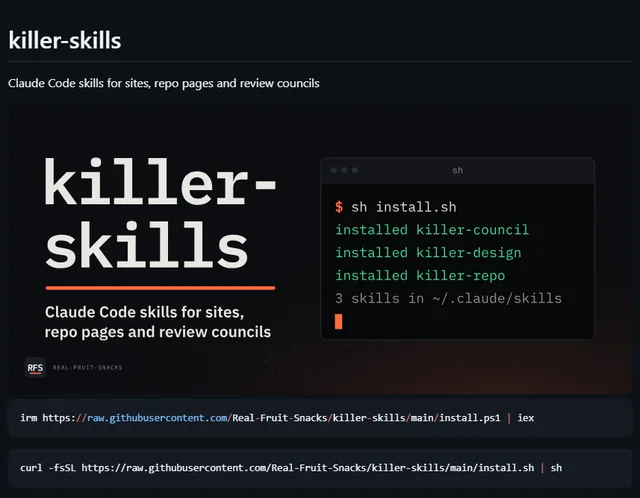
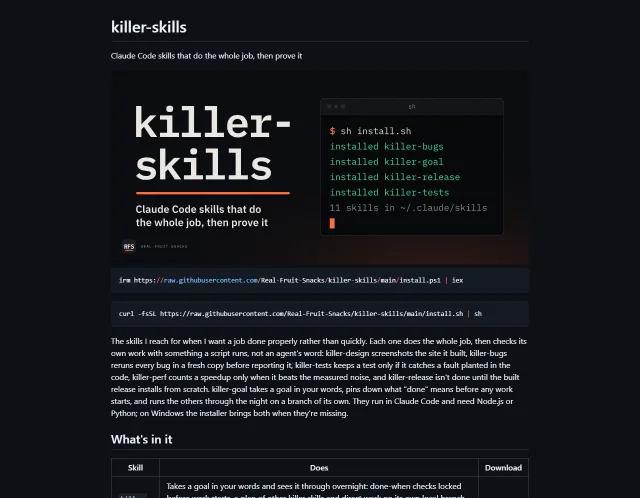
Page: all eleven skills
The three skills with a real run to show keep their plates. The other eight
follow in a ruled list: what each does, the check its script makes before a
job counts as done, what it needs, and its download. A skill moves up to a
plate when it has a real run worth printing; DESIGN.md says so now.

killer-repo's plate gets fresh renders of this README through GitHub, since
the old ones showed the three-skill cover. Checked with shoot.mjs at 390, 768
and 1440.

diff --git a/docs/index.html b/docs/index.html
@@ -4,7 +4,7 @@
 <meta charset="utf-8">
 <meta name="viewport" content="width=device-width, initial-scale=1">
 <title>killer-skills: Claude Code skills that won't hand you the first draft</title>
-<meta name="description" content="Three Claude Code skills, each its own download. killer-design builds a website and screenshots it, killer-repo rebuilds a repo page and renders it as GitHub will, killer-council has blind reviewers score work until it passes.">
+<meta name="description" content="Eleven Claude Code skills, each its own download, that do a whole job and check it: websites, decks, repo pages, blind reviews, bug hunts, tests, docs, speed, upgrades and releases, with killer-goal to run them overnight toward one goal.">
 <link rel="canonical" href="https://real-fruit-snacks.github.io/killer-skills/">
 <meta property="og:title" content="killer-skills">
 <meta property="og:description" content="Claude Code skills that won't hand you the first draft. A real council run: round 1 scored 10, round 2 scored 87.">
@@ -25,7 +25,7 @@
 </head>
 <body>
 
-<p class="slug"><span>killer-skills</span><span>Claude Code skills</span><span>MIT</span><span class="slug-wide">Real-Fruit-Snacks</span><span class="slug-wide">proof 2 of 2</span></p>
+<p class="slug"><span>killer-skills</span><span>Claude Code skills</span><span>MIT</span><span class="slug-wide">Real-Fruit-Snacks</span><span class="slug-wide">proof 3 of 3</span></p>
 
 <header class="mast">
   <a class="wordmark" href="./">killer-skills</a>
@@ -40,10 +40,10 @@
   <section class="hero" aria-labelledby="title">
     <div class="hero-copy">
       <h1 id="title">Claude Code skills that won’t hand you the first draft.</h1>
-      <p class="stand">killer-design builds a website and screenshots it. killer-repo rebuilds a repo page and renders it the way GitHub will. killer-council has blind reviewers score the work until it clears a bar they never see. Each one looks at its result, fixes it, and looks again.</p>
+      <p class="stand">Eleven skills, each for a whole job: a website, a deck, a repo page, a blind review, a bug hunt, tests, docs, speed, upgrades, a release. Each one checks its result with a script, fixes what it finds, and checks again. killer-goal runs them overnight toward one goal.</p>
 
       <div class="ticket" id="install">
-        <p class="ticket-head">Install all three into <code>~/.claude/skills</code></p>
+        <p class="ticket-head">Install all eleven into <code>~/.claude/skills</code></p>
         <div class="cmd">
           <span class="cmd-label">PowerShell</span>
           <code class="cmd-line">irm https:/<wbr>/<wbr>raw.githubusercontent.com/<wbr>Real-Fruit-Snacks/<wbr>killer-skills/<wbr>main/<wbr>install.ps1 | iex</code>
@@ -148,7 +148,7 @@
           <img src="assets/readme-light.webp" width="640" height="498" alt="This repo's README rendered in light mode: the title, the cover and both install lines" loading="lazy" decoding="async">
           <img src="assets/readme-dark.webp" width="640" height="498" alt="The same README rendered in dark mode" loading="lazy" decoding="async">
         </div>
-        <figcaption>This repo’s README through <code>render.mjs</code>: cover-dark.svg 836x390 (84 KB), 0 badges, 2 code blocks, 113 words on the first screen.</figcaption>
+        <figcaption>This repo’s README through <code>render.mjs</code>: cover-dark.svg 836x390 (88 KB), 0 badges, 2 code blocks, 151 words on the first screen.</figcaption>
       </figure>
     </article>
 
@@ -178,6 +178,109 @@
       </figure>
     </article>
 
+    <div class="set-head">
+      <h3 id="set-title">Eight more, each with a check to pass</h3>
+      <p>These are newer, and none has a real run printed here yet. So instead of evidence, each one names the check its script makes before the job counts as done.</p>
+    </div>
+    <ol class="set" aria-labelledby="set-title">
+      <li class="job" aria-labelledby="k-goal">
+        <h4 id="k-goal"><span class="pre">killer-</span><span class="name">goal</span></h4>
+        <dl>
+          <dt>Does</dt><dd>Takes one goal, like “get this ready for 2.0”, plans it as steps of the other skills and direct work, and works through them overnight on a new local branch.</dd>
+          <dt>Done when</dt><dd>The done-when checks, locked before any work starts, pass in a fresh copy of the branch, and a blind judge agrees. Nothing is pushed unless you chose that at setup.</dd>
+          <dt>Needs</dt><dd>Python 3.10 or later</dd>
+        </dl>
+        <div class="get">
+          <a class="zip" href="https://github.com/Real-Fruit-Snacks/killer-skills/releases/latest/download/killer-goal.zip">killer-goal.zip</a>
+          <button class="copy" type="button" data-copy="&amp; ([scriptblock]::Create((irm https://raw.githubusercontent.com/Real-Fruit-Snacks/killer-skills/main/install.ps1))) killer-goal">Copy its PowerShell line</button>
+        </div>
+      </li>
+      <li class="job" aria-labelledby="k-slides">
+        <h4 id="k-slides"><span class="pre">killer-</span><span class="name">slides</span></h4>
+        <dl>
+          <dt>Does</dt><dd>Makes a talk as one HTML file that runs in any browser, with speaker notes, a presenter view, an overview and print to PDF.</dd>
+          <dt>Done when</dt><dd>Every slide is measured in a real browser at three sizes for overflow, text size and contrast, and a blind audience agent who sees only the slides says what the talk argues.</dd>
+          <dt>Needs</dt><dd>Node.js 20 or later and Playwright, as for killer-design</dd>
+        </dl>
+        <div class="get">
+          <a class="zip" href="https://github.com/Real-Fruit-Snacks/killer-skills/releases/latest/download/killer-slides.zip">killer-slides.zip</a>
+          <button class="copy" type="button" data-copy="&amp; ([scriptblock]::Create((irm https://raw.githubusercontent.com/Real-Fruit-Snacks/killer-skills/main/install.ps1))) killer-slides">Copy its PowerShell line</button>
+        </div>
+      </li>
+      <li class="job" aria-labelledby="k-bugs">
+        <h4 id="k-bugs"><span class="pre">killer-</span><span class="name">bugs</span></h4>
+        <dl>
+          <dt>Does</dt><dd>Sends blind finders after one kind of bug each, then provers who make each suspect happen and challengers who try to knock it down.</dd>
+          <dt>Done when</dt><dd>A bug counts once its reproduction shows it in a fresh copy of the project. A fix counts when its test fails without it and passes with it.</dd>
+          <dt>Needs</dt><dd>Python 3.10 or later</dd>
+        </dl>
+        <div class="get">
+          <a class="zip" href="https://github.com/Real-Fruit-Snacks/killer-skills/releases/latest/download/killer-bugs.zip">killer-bugs.zip</a>
+          <button class="copy" type="button" data-copy="&amp; ([scriptblock]::Create((irm https://raw.githubusercontent.com/Real-Fruit-Snacks/killer-skills/main/install.ps1))) killer-bugs">Copy its PowerShell line</button>
+        </div>
+      </li>
+      <li class="job" aria-labelledby="k-tests">
+        <h4 id="k-tests"><span class="pre">killer-</span><span class="name">tests</span></h4>
+        <dl>
+          <dt>Does</dt><dd>Plants small faults in the code to find what the tests miss, and has fresh agents write tests for those gaps in the project’s own style.</dd>
+          <dt>Done when</dt><dd>A new test passes three times on the real code, fails twice with its fault in place, and the fault passes without it.</dd>
+          <dt>Needs</dt><dd>Python 3.10 or later</dd>
+        </dl>
+        <div class="get">
+          <a class="zip" href="https://github.com/Real-Fruit-Snacks/killer-skills/releases/latest/download/killer-tests.zip">killer-tests.zip</a>
+          <button class="copy" type="button" data-copy="&amp; ([scriptblock]::Create((irm https://raw.githubusercontent.com/Real-Fruit-Snacks/killer-skills/main/install.ps1))) killer-tests">Copy its PowerShell line</button>
+        </div>
+      </li>
+      <li class="job" aria-labelledby="k-docs">
+        <h4 id="k-docs"><span class="pre">killer-</span><span class="name">docs</span></h4>
+        <dl>
+          <dt>Does</dt><dd>Runs every command and code sample in the docs in a sandbox, and sends newcomer agents who have never seen the code to follow them.</dd>
+          <dt>Done when</dt><dd>The blocks run as written, and after the fixes a different fresh newcomer walks the same path.</dd>
+          <dt>Needs</dt><dd>Python 3.10 or later</dd>
+        </dl>
+        <div class="get">
+          <a class="zip" href="https://github.com/Real-Fruit-Snacks/killer-skills/releases/latest/download/killer-docs.zip">killer-docs.zip</a>
+          <button class="copy" type="button" data-copy="&amp; ([scriptblock]::Create((irm https://raw.githubusercontent.com/Real-Fruit-Snacks/killer-skills/main/install.ps1))) killer-docs">Copy its PowerShell line</button>
+        </div>
+      </li>
+      <li class="job" aria-labelledby="k-perf">
+        <h4 id="k-perf"><span class="pre">killer-</span><span class="name">perf</span></h4>
+        <dl>
+          <dt>Does</dt><dd>Measures the noise, profiles the project, and sends optimisers after one kind of slowness each.</dd>
+          <dt>Done when</dt><dd>The change beats the measured noise in interleaved runs, by a confidence interval and a significance test, with the tests passing and the output unchanged.</dd>
+          <dt>Needs</dt><dd>Python 3.10 or later</dd>
+        </dl>
+        <div class="get">
+          <a class="zip" href="https://github.com/Real-Fruit-Snacks/killer-skills/releases/latest/download/killer-perf.zip">killer-perf.zip</a>
+          <button class="copy" type="button" data-copy="&amp; ([scriptblock]::Create((irm https://raw.githubusercontent.com/Real-Fruit-Snacks/killer-skills/main/install.ps1))) killer-perf">Copy its PowerShell line</button>
+        </div>
+      </li>
+      <li class="job" aria-labelledby="k-upgrade">
+        <h4 id="k-upgrade"><span class="pre">killer-</span><span class="name">upgrade</span></h4>
+        <dl>
+          <dt>Does</dt><dd>Brings dependencies up to date in batches across npm, pip, Cargo, Go and more, and bisects a batch that breaks to the upgrade that broke it.</dd>
+          <dt>Done when</dt><dd>Everything that passed at the baseline still passes in a fresh sandbox. Each proven step is one commit.</dd>
+          <dt>Needs</dt><dd>Python 3.10 or later, and the network</dd>
+        </dl>
+        <div class="get">
+          <a class="zip" href="https://github.com/Real-Fruit-Snacks/killer-skills/releases/latest/download/killer-upgrade.zip">killer-upgrade.zip</a>
+          <button class="copy" type="button" data-copy="&amp; ([scriptblock]::Create((irm https://raw.githubusercontent.com/Real-Fruit-Snacks/killer-skills/main/install.ps1))) killer-upgrade">Copy its PowerShell line</button>
+        </div>
+      </li>
+      <li class="job" aria-labelledby="k-release">
+        <h4 id="k-release"><span class="pre">killer-</span><span class="name">release</span></h4>
+        <dl>
+          <dt>Does</dt><dd>Bumps every place the version appears, checks the changelog against the commits with a blind reviewer, and builds the release in a clean copy.</dd>
+          <dt>Done when</dt><dd>The built release installs from scratch with the network off and prints the new version. Tags and pushes wait for your OK.</dd>
+          <dt>Needs</dt><dd>Python 3.10 or later</dd>
+        </dl>
+        <div class="get">
+          <a class="zip" href="https://github.com/Real-Fruit-Snacks/killer-skills/releases/latest/download/killer-release.zip">killer-release.zip</a>
+          <button class="copy" type="button" data-copy="&amp; ([scriptblock]::Create((irm https://raw.githubusercontent.com/Real-Fruit-Snacks/killer-skills/main/install.ps1))) killer-release">Copy its PowerShell line</button>
+        </div>
+      </li>
+    </ol>
+
     <p class="sh-one">On macOS and Linux, one skill at a time: <code>curl -fsSL https:/<wbr>/<wbr>raw.githubusercontent.com/<wbr>Real-Fruit-Snacks/<wbr>killer-skills/<wbr>main/<wbr>install.sh | sh -s -- killer-repo</code></p>
   </section>
 
@@ -185,9 +288,9 @@
     <div>
       <h2>Tested on</h2>
       <ul>
-        <li>Windows 11 · Claude Code 2.1.316 · Node.js 24.20.0 · Python 3.14.2: each skill run on a real project</li>
-        <li>Ubuntu 24.04, Windows Server 2025 and macOS 26 in CI on every push: both installers, downloading and from a folder, the packager, fonts.mjs and the council script</li>
-        <li>Windows Server 2025 in CI, with the network cut off: every Chromium script on the packed Node.js, a page in the pack’s fonts, and the council’s tests on the packed Python</li>
+        <li>Windows 11 · Claude Code 2.1.316 · Node.js 24.20.0 · Python 3.14.2: killer-design, killer-repo and killer-council each run on a real project. killer-slides made a real deck with a real audience round, killer-release smoke-installed this repo, and killer-bugs ran partway on three projects. The rest are tested by their scripts’ own tests</li>
+        <li>Ubuntu 24.04, Windows Server 2025 and macOS 26 in CI on every push: both installers, downloading and from a folder, the packager, the shared sandbox kit and every skill’s scripts</li>
+        <li>Windows Server 2025 in CI, with the network cut off: every Chromium script on the packed Node.js, a page in the pack’s fonts, killer-slides’ browser checks, and every Python skill’s tests on the packed Python</li>
         <li><em>Not</em> tested: the skills themselves on macOS or Linux, or uploaded to claude.ai</li>
       </ul>
     </div>
@@ -195,9 +298,13 @@
       <h2>Known issues</h2>
       <ul>
         <li>The runtime, Node.js and Python packs are Windows only. Elsewhere, the first screenshot installs Playwright and Chromium, which needs the network.</li>
+        <li>The sandboxes the Python skills run code in aren’t containers. Windows PowerShell 5.1 and programs that open sockets themselves can still reach the network.</li>
         <li>killer-council’s reviewers work in your folder, not a sandbox. <code>council.py verify</code> catches a change after each round; nothing prevents one.</li>
+        <li>killer-goal keeps going overnight with a Stop hook in <code>~/.claude/settings.json</code>, added only if you say yes. It does nothing unless a goal is running.</li>
+        <li>killer-upgrade has run npm and pip for real. Its other package managers are checked against saved output only.</li>
         <li>A council that mixes providers needs T3 Code. Elsewhere it offers a mix of Claude models.</li>
         <li>GitHub has no API for a repo’s social preview, so killer-repo makes the card and tells you where to upload it.</li>
+        <li class="more"><a href="https://github.com/Real-Fruit-Snacks/killer-skills#known-issues">The rest are in the README</a></li>
       </ul>
     </div>
     <div>

diff --git a/docs/styles.css b/docs/styles.css
@@ -328,6 +328,43 @@ img { max-width: 100%; height: auto; display: block; }
 .ledger .fail td:last-child { color: var(--red); }
 .ledger .pass td:last-child { color: var(--ink); }
 
+/* the rest of the set: a ruled docket, one row a skill, until a real run earns it a plate */
+.set-head {
+  display: grid; grid-template-columns: minmax(0, 7fr) minmax(0, 5fr); gap: var(--space-xs) var(--space-l-2xl); align-items: end;
+  margin-top: var(--space-xl); border-top: 3px solid var(--ink); padding-top: var(--space-m);
+}
+.set-head h3 { font-size: var(--step-2); font-weight: 800; font-stretch: 70%; line-height: 1; }
+.set-head p { margin: 0; font-size: var(--small); color: var(--ink-muted); max-width: 46ch; }
+@media (max-width: 60rem) { .set-head { grid-template-columns: minmax(0, 1fr); } }
+
+.set { list-style: none; margin: var(--space-m) 0 0; padding: 0; border-top: 1px solid var(--ink); }
+.job {
+  display: grid; grid-template-columns: minmax(0, 3fr) minmax(0, 6.5fr) minmax(0, 2.5fr); gap: var(--space-xs) var(--space-l);
+  padding-block: var(--space-m); border-bottom: 1px solid var(--line); align-items: start;
+}
+.job:last-child { border-bottom-color: var(--ink); }
+.job h4 { margin: 0; line-height: .86; }
+.job .pre { display: block; font: 500 var(--tiny) / 1 var(--mono); color: var(--ink-muted); margin-bottom: .4rem; }
+.job .name { display: block; font-size: var(--step-3); font-weight: 800; font-stretch: 62%; letter-spacing: -0.005em; }
+.job dl { display: grid; grid-template-columns: 5.5rem minmax(0, 1fr); gap: .4rem var(--space-s); margin: 0; font-size: var(--small); }
+.job dt { font: 500 var(--tiny) / 1.7 var(--mono); color: var(--ink-muted); }
+.job dd { margin: 0; max-width: 62ch; }
+.job .get { flex-direction: column; align-items: flex-start; }
+.zip {
+  display: inline-flex; align-items: center; min-height: 2.5rem;
+  font: 500 var(--small) / 1 var(--mono); text-decoration-color: var(--ink);
+}
+@media (max-width: 64rem) {
+  .job { grid-template-columns: minmax(0, 1fr) minmax(0, 2.4fr); }
+  .job .get { grid-column: 2; flex-direction: row; align-items: center; gap: var(--space-s); }
+}
+@media (max-width: 40rem) {
+  .job { grid-template-columns: minmax(0, 1fr); }
+  .job .get { grid-column: auto; }
+  .job dl { grid-template-columns: minmax(0, 1fr); gap: .1rem; }
+  .job dd + dt { margin-top: .5rem; }
+}
+
 .sh-one { margin: var(--space-l) 0 0; font-size: var(--small); color: var(--ink-muted); }
 .sh-one code { color: var(--ink); overflow-wrap: anywhere; }
 
@@ -341,6 +378,7 @@ img { max-width: 100%; height: auto; display: block; }
 .notes ul { margin: 0; padding-left: 1.1em; }
 .notes li { margin-bottom: .55em; }
 .notes li::marker { color: var(--red); }
+.notes .more a { display: inline-block; padding-block: .35rem; }
 .vars { margin: 0; display: grid; gap: .15rem; }
 .vars dt { margin-top: .6rem; }
 .vars dd { margin: 0; color: var(--ink-muted); }

diff --git a/docs/DESIGN.md b/docs/DESIGN.md
@@ -1,10 +1,10 @@
 # Design: killer-skills page
 
 ## Concept
-A press proof. Before anything is printed, someone checks a proof sheet, marks every fault in red, and sends it back until it's right. That is what all three skills do to their own work, so the page is set like a proof on the makeready table: crop marks, non-photo-blue layout guides, a slug line, a colour bar, and red pen on a real draft. A visitor should leave thinking these skills are exacting, and that they don't hand you a first draft.
+A press proof. Before anything is printed, someone checks a proof sheet, marks every fault in red, and sends it back until it's right. That is what every skill in the set does to its own work, so the page is set like a proof on the makeready table: crop marks, non-photo-blue layout guides, a slug line, a colour bar, and red pen on a real draft. A visitor should leave thinking these skills are exacting, and that they don't hand you a first draft.
 
 ## Audience and primary action
-Claude Code users who landed from the repo, a link or the README. They need to know what the three skills are, that each one downloads on its own, and how to install. Primary action: copy the install line. Second: download one skill's zip.
+Claude Code users who landed from the repo, a link or the README. They need to know what the skills are, that each one downloads on its own, and how to install. Primary action: copy the install line. Second: download one skill's zip.
 
 ## Type
 Display and text: Archivo, one variable file (width 62–125%, weight 100–900). Display is set ExtraCondensed (width 62%) at weight 800, as large as the column allows, like a press headline. Text is width 100% at 400. One family in two roles keeps it disciplined; the width axis does the contrast.
@@ -24,7 +24,7 @@ Light only: it's paper.
 - The colour bar in the footer is the one place cyan, magenta and yellow appear.
 
 ## Layout
-A 76rem wide column on a 12-column grid. The hero splits 7/5: the headline and install on the left, the proof on the right, breaking the grid with two rotated sheets. The skills are three full-width plates separated by ink rules, each name set huge; then a dense two-column block for "Tested on" and "Known issues"; then the footer slug line. Sections differ in density on purpose.
+A 76rem wide column on a 12-column grid. The hero splits 7/5: the headline and install on the left, the proof on the right, breaking the grid with two rotated sheets. The skills with evidence from a real run get full-width plates separated by ink rules, each name set huge. The rest of the set follows as a ruled docket, one row a skill: what it does, the check its script makes before the job counts as done, what it needs, and its download. A skill moves up to a plate when it has a real run worth printing; nothing on a plate is invented. Then a dense block for "Tested on", "Known issues" and the installer settings; then the footer slug line. Sections differ in density on purpose.
 
 ## Signature
 1. Red pen on real work: the marks draw in over a real draft, and scores are circled by hand.
@@ -38,7 +38,7 @@ The hero proof replays a real killer-council run (2026-11-04, a word-count scrip
 - Phone: the proof sits under the install ticket, full width, with the notes under their lines and the second sheet overlapping the first one's foot.
 
 ## Imagery and texture
-No stock imagery. The proofs are real text in HTML. The killer-repo plate shows real renders of this repo's README from `render.mjs`. Paper gets a light shadow and a 1px edge; nothing else casts one.
+No stock imagery. The proofs are real text in HTML. The killer-repo plate shows real renders of this repo's README from `render.mjs`: the top 1280×996 of the full desktop render, halved to WebP. Re-render them when the README's first screen changes, with `--wait` long enough for the cover's terminal to finish typing. Paper gets a light shadow and a 1px edge; nothing else casts one.
 
 The social card (`assets/og.png`, 1200×630) is `og-card.html`, the same sheets with the animation names switched off, rendered with killer-repo's `card.mjs` (the command is in the file). Re-render it when the proof changes. The README keeps its RFS cover; this page and its card are its own.
 

diff --git a/CHANGELOG.md b/CHANGELOG.md
@@ -72,6 +72,7 @@ Eight new skills, for eleven in all, each ending with a check a script runs: a b
 - On Windows, `install.ps1` installs the Python pack with any of the Python skills when there's no Python 3.10 or later, and the runtime, Node.js and font packs with killer-slides as with killer-design. `install.sh` installs the font pack with killer-slides.
 - killer-bugs runs on the shared kit rather than its own copy of it, so it gets every kit fix. Its sandboxes keep the project's own git state (HEAD, branch and what's staged) with no base commit, and their scratch folder is still `repro/`, so earlier runs' reproductions still rerun.
 - killer-design and killer-repo keep books too: `handoff.mjs` (one source, `tools/shared/handoff.mjs`) makes a run folder, records decisions and waiting items, and writes `summary.json` with the commits made since the run began. A FAIL left in the final `shoot.mjs` or `audit.mjs` report makes the run partial, not done. Every skill now writes `summary.json`, and killer-goal reads them all the same way.
+- The project page lists all eleven skills. The three with a real run to show keep their plates; the other eight follow in a ruled list with what each does, the check its script makes before a job counts as done, and its download. killer-repo's plate shows fresh renders of this README.
 - killer-council's `council.py summary` writes `summary.json` from the tallies and the holdout, not from memory: a pass the holdout disagrees with is partial, and the agent count is the seats it really sent. `decide` and `wait` record an unattended run's calls and outward actions.
 - killer-repo's `render.mjs` keeps each project's screenshots in a folder of their own, `<label>-<hash>`, so two projects in folders with the same name, or two projects' "before" runs, no longer overwrite each other's.
 - The first skills' descriptions name the newer skill that fits better: killer-design points decks to killer-slides, killer-repo points to killer-docs and killer-release, killer-bugs to killer-tests and killer-council to killer-goal.
